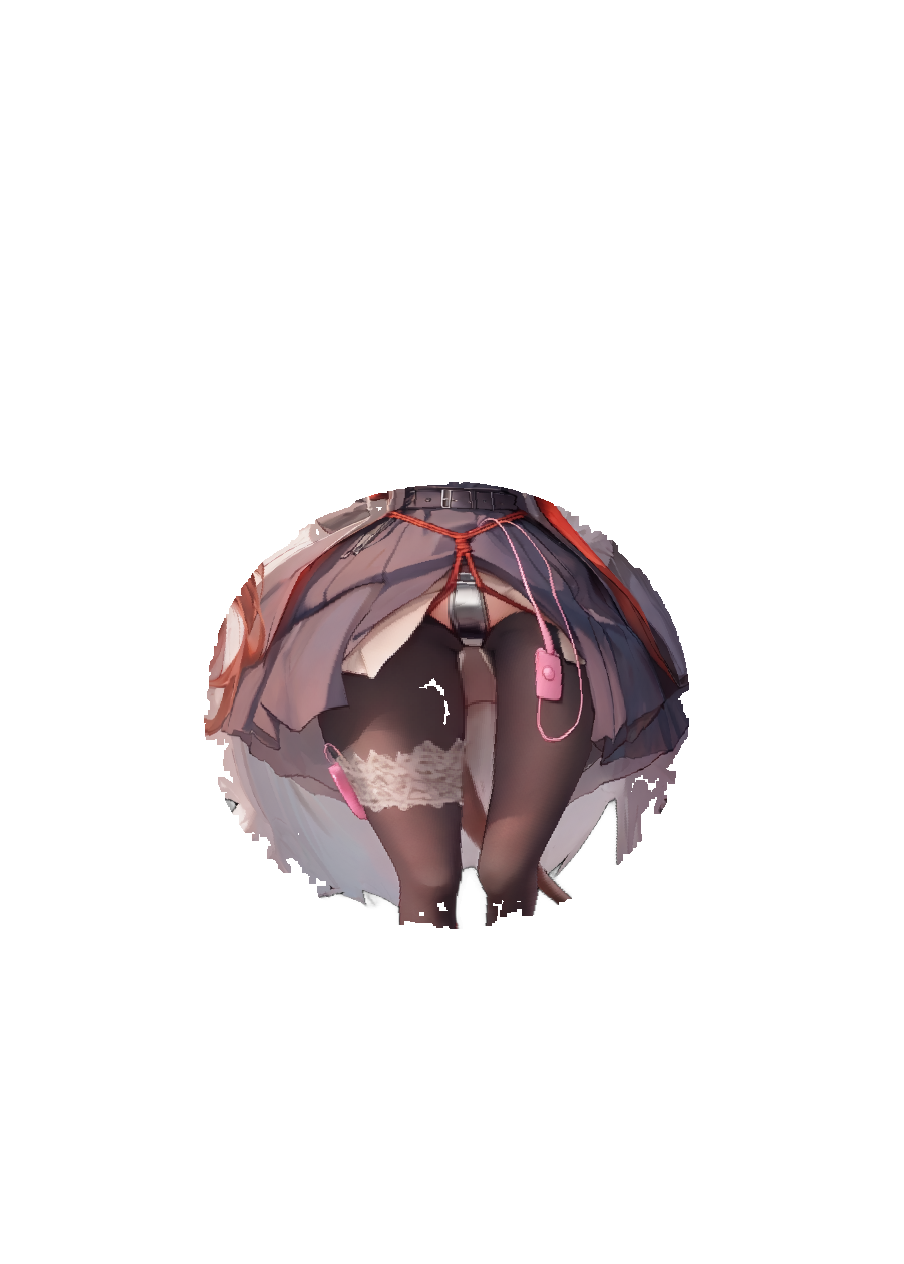
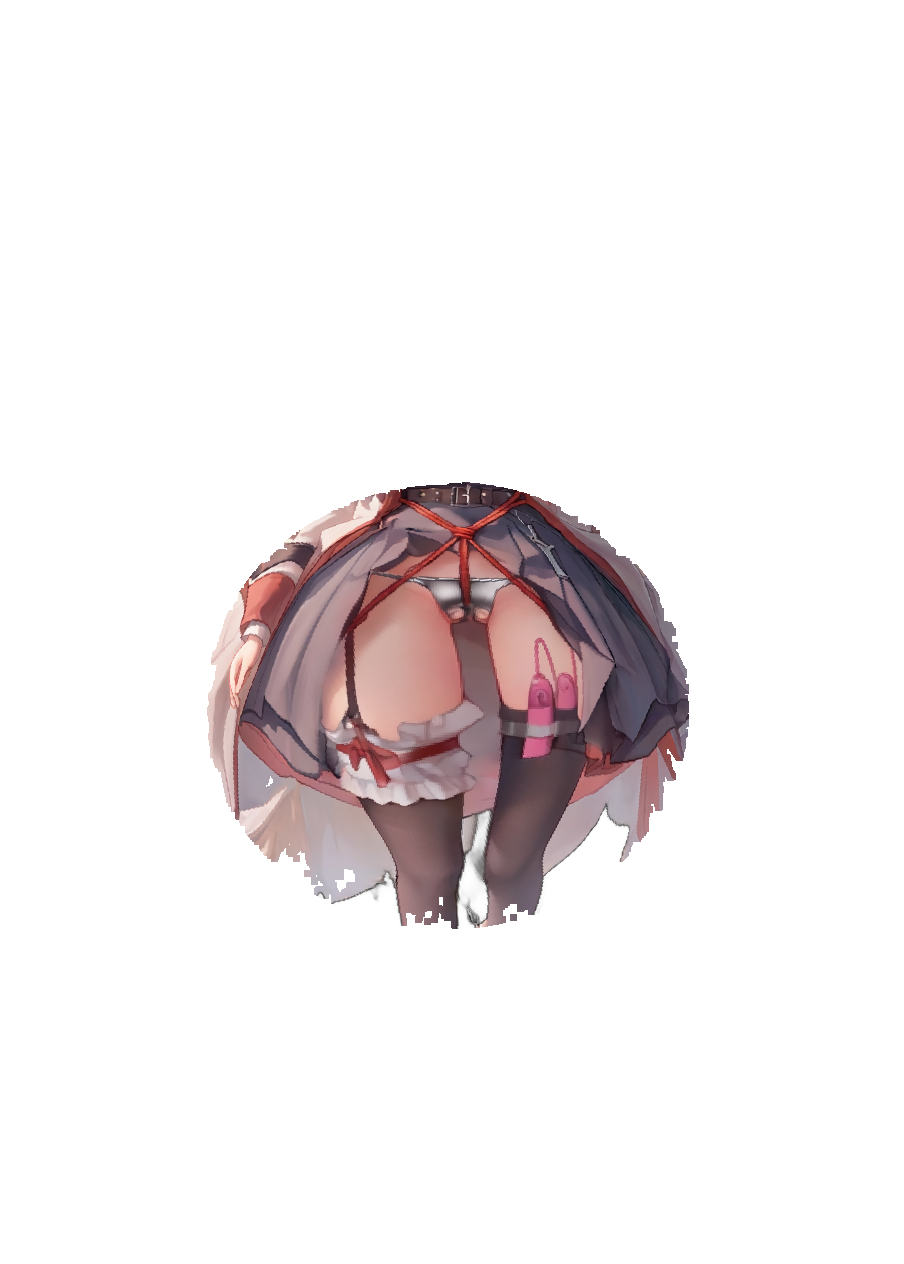
0.5.1：新装备合体图锁底验证通过(差异16%集中装备区)，切出7单件×孕肚3期(项圈/眼罩/口枷/绳缚/贞操/腿环/跳蛋)——戴哪件叠哪件、与破损/情欲/绑手/孕肚自由组合；高潮表情整图状态接入(失控瞬间切换6秒,附孕肚补丁)

Changed region(s): [[0.2168, 0.3703, 0.7743, 0.7405]]

diff --git a/ArknightsNsfwBridge/src/main/java/arknsfw/helpers/ArkPortraitPanel.java b/ArknightsNsfwBridge/src/main/java/arknsfw/helpers/ArkPortraitPanel.java
@@ -30,6 +30,12 @@ public final class ArkPortraitPanel {
     private static Texture heartTex;
     private static final ArrayList<float[]> HEARTS = new ArrayList<float[]>();
     private static float time = 0.0F;
+    private static float climaxUntil = -1.0F;
+
+    /** 高潮失控时由 ArkClimaxHelper 调用：立绘切换高潮表情 6 秒。 */
+    public static void notifyClimax() {
+        climaxUntil = time + 6.0F;
+    }
     private static float spawnTimer = 0.0F;
 
     private static Field pregProgressField;
@@ -77,13 +83,13 @@ public final class ArkPortraitPanel {
     }
 
     private static String userState(String key, int tier) {
-        if (anyGearRelic()) {
-            return "gear";
+        if (time < climaxUntil) {
+            return "climax";
         }
         if (hasRelic(arknsfw.relics.equipment.RestraintCuffsRelic.ID)) {
             return "cuffs";
         }
-        if (crestVisible(key) && !NsfwRunStats.pregnant) {
+        if (crestVisible(key) && !NsfwRunStats.pregnant && ArkExposureHelper.stage() == 0) {
             return "crest";
         }
         int d = Math.min(4, ArkExposureHelper.stage());
@@ -91,6 +97,37 @@ public final class ArkPortraitPanel {
             return "d" + d;
         }
         return "e" + tier;
+    }
+
+    /** 装备单件层：戴哪件叠哪件（从锁底装备合体图切出）。 */
+    private static void drawUserItems(SpriteBatch sb, String key, float ox, float oy, float bw, float bh, int preg) {
+        String suffix = preg > 0 ? "_p" + preg : "";
+        if (hasRelic(arknsfw.relics.equipment.RopeBindRelic.ID)) drawUserItem(sb, key, "rope" + suffix, ox, oy, bw, bh);
+        if (hasRelic(arknsfw.relics.equipment.ChastityBeltRelic.ID)) drawUserItem(sb, key, "chastity" + suffix, ox, oy, bw, bh);
+        if (hasRelic(arknsfw.relics.equipment.LaceGarterRelic.ID)) drawUserItem(sb, key, "garter" + suffix, ox, oy, bw, bh);
+        if (hasRelic(arknsfw.relics.equipment.VibeEggRelic.ID)) drawUserItem(sb, key, "vibe" + suffix, ox, oy, bw, bh);
+        if (hasRelic(arknsfw.relics.equipment.BellTagRelic.ID)
+                || hasRelic(arknsfw.relics.equipment.LeashRelic.ID)
+                || hasRelic(arknsfw.relics.equipment.BodyCrestRelic.ID)) {
+            drawUserItem(sb, key, "collar" + suffix, ox, oy, bw, bh);
+        }
+        if (hasRelic(arknsfw.relics.equipment.RingGagRelic.ID)
+                || hasRelic(arknsfw.relics.equipment.ClothGagRelic.ID)) {
+            drawUserItem(sb, key, "gag" + suffix, ox, oy, bw, bh);
+        }
+        if (hasRelic(arknsfw.relics.equipment.LaceBlindfoldRelic.ID)) {
+            drawUserItem(sb, key, "blindfold" + suffix, ox, oy, bw, bh);
+        }
+    }
+
+    private static void drawUserItem(SpriteBatch sb, String key, String item, float ox, float oy, float bw, float bh) {
+        Texture t = loadUser(key + "_it_" + item);
+        if (t == null && item.contains("_p")) {
+            t = loadUser(key + "_it_" + item.substring(0, item.indexOf("_p")));
+        }
+        if (t != null) {
+            sb.draw(t, ox, oy, bw, bh);
+        }
     }
 
     private static Texture loadUser(String name) {
@@ -141,6 +178,9 @@ public final class ArkPortraitPanel {
                 sb.draw(patch, ox, oy, bw, bh);
             }
         }
+
+        // 装备单件叠加（含孕肚形变版）
+        drawUserItems(sb, key, ox, oy, bw, bh, preg);
 
         // 淫纹辉光穿透：刻印/怀孕时在纹章位置叠加搏动光晕
         if (crestVisible(key)) {

diff --git a/tools/split_gear_layers.py b/tools/split_gear_layers.py
@@ -1,0 +1,73 @@
+#!/usr/bin/env python3
+"""Split the pixel-locked 装备合体 diff layer into per-relic overlay PNGs,
+and bake the climax expression state. Outputs to portraits/user/."""
+import sys, os
+sys.path.insert(0, os.path.dirname(os.path.abspath(__file__)))
+import numpy as np
+from PIL import Image, ImageFilter
+from process_user_art import belly_warp, sparse_patch, PREG, belly_anchor
+
+W, H = 904, 1264
[1 lines of base64/hex data omitted]
+
+# 每件装备的裁剪盒 (x0,y0,x1,y1)，来自网格标定
+BOXES = {
+    "eyja": {
+        "blindfold": (300, 160, 590, 262),
+        "gag":       (348, 258, 545, 312),
+        "collar":    (330, 300, 560, 396),
+        "rope":      (325, 388, 575, 525),
+        "chastity":  (325, 525, 575, 668),
+        "garter":    (325, 660, 478, 795),
+        "vibe":      (462, 630, 585, 782),
+    },
+    "muel": {
+        "blindfold": (300, 170, 590, 270),
+        "gag":       (345, 262, 550, 318),
+        "collar":    (330, 300, 565, 400),
+        "rope":      (330, 375, 580, 520),
+        "chastity":  (330, 520, 580, 700),
+        "garter":    (320, 640, 470, 790),
+        "vibe":      (455, 610, 585, 760),
+    },
+}
+SRC = {"eyja": "艾雅", "muel": "缪尔赛思"}
+
+
+def extract_layer(cn):
+    base = np.asarray(Image.open(f"art_input/{cn}/基础.png").convert("RGBA"), dtype=np.int16)
+    gear_img = Image.open(f"art_input/{cn}/装备合体.png").convert("RGBA")
+    gear = np.asarray(gear_img, dtype=np.int16)
+    d = np.abs(gear - base).sum(axis=2)
+    mask = (d > 70).astype(np.uint8) * 255
+    m = Image.fromarray(mask).filter(ImageFilter.MinFilter(3)).filter(ImageFilter.MaxFilter(9)).filter(ImageFilter.MaxFilter(5))
+    mm = np.asarray(m) > 0
+    ga = np.asarray(gear_img)
+    layer = np.zeros_like(ga)
+    layer[mm] = ga[mm]
+    feather = np.asarray(Image.fromarray((mm * 255).astype(np.uint8)).filter(ImageFilter.GaussianBlur(1.2)))
+    layer[:, :, 3] = np.minimum(feather, ga[:, :, 3])
+    return layer
+
+
+def main():
+    for tag, cn in SRC.items():
+        layer = extract_layer(cn)
+        cx, cy, _ = belly_anchor(cn)
+        for item, (x0, y0, x1, y1) in BOXES[tag].items():
+            piece = np.zeros_like(layer)
+            piece[y0:y1, x0:x1] = layer[y0:y1, x0:x1]
+            Image.fromarray(piece).save(f"{OUT}/{tag}_it_{item}.png")
+            # 孕肚形变版（装备贴着肚子走）
+            for stage, (radius, strength) in PREG.items():
+                warped = belly_warp(piece, cx, cy, radius, strength)
+                Image.fromarray(warped).save(f"{OUT}/{tag}_it_{item}_p{stage}.png")
+        print(tag, "7 items split (+preg variants)")
+        # 高潮表情：整图状态 + 孕肚补丁
+        img = Image.open(f"art_input/{cn}/高潮.png").convert("RGBA")
+        img.save(f"{OUT}/{tag}_climax.png")
+    print("done (climax preg patches via process_user_art step)")
+
+
+if __name__ == "__main__":
+    main()

diff --git a/Highmore/src/main/java/highmore/HighmoreMod.java b/Highmore/src/main/java/highmore/HighmoreMod.java
@@ -142,7 +142,7 @@ public class HighmoreMod implements
 
                                 @Override
     public void receivePostInitialize() {
-        System.out.println("[highmore] 0.5.0-userart loaded");
+        System.out.println("[highmore] 0.5.1-gearsplit loaded");
         SkinSelectScreen.Inst = new SkinSelectScreen();
         BaseMod.addEvent(HighmoreBeachedWhisper.ID, HighmoreBeachedWhisper.class, Exordium.ID);
         BaseMod.addEvent(HighmoreSaltPond.ID, HighmoreSaltPond.class, TheCity.ID);

diff --git a/Archetto/src/main/java/archetto/ArchettoMod.java b/Archetto/src/main/java/archetto/ArchettoMod.java
@@ -143,7 +143,7 @@ public class ArchettoMod implements
 
                                 @Override
     public void receivePostInitialize() {
-        System.out.println("[archetto] 0.5.0-userart loaded");
+        System.out.println("[archetto] 0.5.1-gearsplit loaded");
         SkinSelectScreen.Inst = new SkinSelectScreen();
         BaseMod.addEvent(ArchettoMusicHall.ID, ArchettoMusicHall.class, Exordium.ID);
         BaseMod.addEvent(ArchettoBrokenString.ID, ArchettoBrokenString.class, TheCity.ID);

diff --git a/Haruka/src/main/java/haruka/HarukaMod.java b/Haruka/src/main/java/haruka/HarukaMod.java
@@ -143,7 +143,7 @@ public class HarukaMod implements
 
                                 @Override
     public void receivePostInitialize() {
-        System.out.println("[haruka] 0.5.0-userart loaded");
+        System.out.println("[haruka] 0.5.1-gearsplit loaded");
         SkinSelectScreen.Inst = new SkinSelectScreen();
         BaseMod.addEvent(HarukaFestivalGate.ID, HarukaFestivalGate.class, Exordium.ID);
         BaseMod.addEvent(HarukaFireworkFault.ID, HarukaFireworkFault.class, TheCity.ID);

diff --git a/Nymph/src/main/java/nymph/NymphMod.java b/Nymph/src/main/java/nymph/NymphMod.java
@@ -143,7 +143,7 @@ public class NymphMod implements
 
                                     @Override
     public void receivePostInitialize() {
-        System.out.println("[nymph] 0.5.0-userart loaded");
+        System.out.println("[nymph] 0.5.1-gearsplit loaded");
         SkinSelectScreen.Inst = new SkinSelectScreen();
         BaseMod.addEvent(NymphWhisperShrine.ID, NymphWhisperShrine.class, Exordium.ID);
         BaseMod.addEvent(NymphMirrorPool.ID, NymphMirrorPool.class, TheCity.ID);

diff --git a/tools/process_user_art.py b/tools/process_user_art.py
@@ -19,7 +19,7 @@ SRC = {"艾雅": "eyja", "缪尔赛思": "muel"}
 STATES = {
     "e0": "情欲0", "e1": "情欲1", "e2": "情欲2", "e3": "情欲3",
     "d1": "小幅度破损", "d2": "大幅度破损", "d3": "极大幅度破损", "d4": "全裸",
-    "cuffs": "手铐", "gear": "装备合体", "crest": "淫纹",
+    "cuffs": "手铐", "gear": "装备合体", "crest": "淫纹", "climax": "高潮",
 }
[1 lines of base64/hex data omitted]
 

diff --git a/Scene/src/main/java/scene/SceneMod.java b/Scene/src/main/java/scene/SceneMod.java
@@ -143,7 +143,7 @@ public class SceneMod implements
 
                                 @Override
     public void receivePostInitialize() {
-        System.out.println("[scene] 0.5.0-userart loaded");
+        System.out.println("[scene] 0.5.1-gearsplit loaded");
         SkinSelectScreen.Inst = new SkinSelectScreen();
         BaseMod.addEvent(SceneDarkroom.ID, SceneDarkroom.class, Exordium.ID);
         BaseMod.addEvent(SceneGallery.ID, SceneGallery.class, TheCity.ID);

diff --git a/ArknightsNsfwBridge/src/main/java/arknsfw/ArkNsfwMod.java b/ArknightsNsfwBridge/src/main/java/arknsfw/ArkNsfwMod.java
@@ -124,7 +124,7 @@ public class ArkNsfwMod implements
 
     @Override
     public void receivePostInitialize() {
-        System.out.println("[arknsfw] 0.5.0-userart loaded (portrait+postbattle render active)");
+        System.out.println("[arknsfw] 0.5.1-gearsplit loaded (portrait+postbattle render active)");
         ArkCharacterSetup.registerCharacters();
         registerEvents();
         registerPotions();

diff --git a/ArknightsNsfwBridge/src/main/java/arknsfw/helpers/ArkClimaxHelper.java b/ArknightsNsfwBridge/src/main/java/arknsfw/helpers/ArkClimaxHelper.java
@@ -46,5 +46,6 @@ public final class ArkClimaxHelper {
             ArkDebuffHelper.apply(p, brand);
         }
         UiHelper.showCenterText(p, "高潮——失控！");
+        ArkPortraitPanel.notifyClimax();
     }
 }
